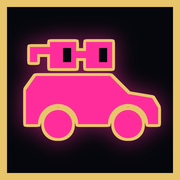
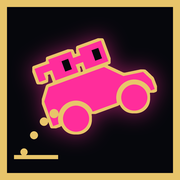
アイコンを「跳ね上がる⌐◨-◨カー」にして咲耶Nounラリーと見分けられるようにする
横向きの車を水平に置いたシルエットは、咲耶Nounラリーのピンクのセダンと
並べると区別がつかなかった。車を20度機首上げにして跳ね上がらせ、後ろに
金の点で跳ねた軌跡と踏み切った地面を描いて、ジャンプバグらしさで見分ける。
色と縁取り・光・枠は咲耶スクランブルと同じ3色のまま。

Claude-Session: https://claude.ai/code/session_01E5WUxXyQ4EDxzCqrV3HKDm

diff --git a/tools/mkicon.py b/tools/mkicon.py
@@ -7,11 +7,14 @@
   - 中身は1つのシルエットを、マゼンタで塗りつぶし・金で縁取り・マゼンタの淡い光
 使う色は咲耶スクランブルのアイコンと同じ3色(地・金・マゼンタ)だけ。
 
-シルエットは 🚙 型の箱形の車の屋根に ⌐◨-◨ が乗った形。
+形は「跳ね上がる⌐◨-◨カー」。屋根に ⌐◨-◨ を乗せた🚙型の車が機首を上げて跳び、
+後ろに金の点で跳ねた軌跡を描く。横向きの車を水平に置いただけでは咲耶Nounラリー
+(ピンクのセダン)と見分けがつかなかったので、「跳ねている」ことで区別する。
   - ◨ の黒い半分(瞳)は地の色で抜き、1色でもメガネに見えるようにする
-  - タイヤは車体からすき間(くり抜き)で切り離し、車だと一目で分かるようにする
+  - タイヤは車体からすき間で切り離し、車だと一目で分かるようにする
 形は180px基準の座標で書き、8倍で描いてから縮める(32pxも同じ形を縮めて作る)。
 """
+import math
 import sys
 from pathlib import Path
 from PIL import Image, ImageDraw, ImageFilter
@@ -24,35 +27,56 @@ FILL = (0xFF, 0x2D, 0x9B)     # マゼンタ: 塗りつぶし
 SS = 8                        # スーパーサンプリング
 
 
+TILT = math.radians(-20)      # 機首上げの角度
+PIVOT = (100, 84)             # 回転の中心(180px基準)
+OFFSET = (-6, 8)              # 傾けたあとに枠の中央へ寄せる量
+
+
+def rot(pts):
+    c, s_ = math.cos(TILT), math.sin(TILT)
+    cx, cy = PIVOT
+    ox, oy = OFFSET
+    return [(cx + (x - cx) * c - (y - cy) * s_ + ox, cy + (x - cx) * s_ + (y - cy) * c + oy) for x, y in pts]
+
+
 def silhouette(S):
-    """塗りつぶす形(白)のマスクと、あとから地の色で抜く穴(◨の瞳)のマスクを返す。
-    瞳を形の一部として抜くと、縁取りの金が穴の中まで回り込んで細いすき間にしか
-    見えなかったので、縁取りを描いたあとで地の色を上から置いて抜く。座標は180px基準"""
+    """塗り(形)・抜き(◨の瞳)・金の点(軌跡)の3枚のマスクを返す。座標は180px基準。
+    瞳を形の一部として抜くと縁取りの金が穴に回り込み細いすき間にしか見えないので、
+    縁取りを描いたあとで地の色を上から置いて抜く"""
     u = S / 180
-    P = lambda pts: [(x * u, y * u) for x, y in pts]
-    R = lambda x0, y0, x1, y1: [x0 * u, y0 * u, x1 * u, y1 * u]
     m = Image.new("L", (S, S), 0)
-    d = ImageDraw.Draw(m)
-    # 車体(横から見た箱形。右が前)
-    d.polygon(P([(26, 124), (26, 90), (36, 76), (110, 76), (128, 94), (152, 98), (158, 108), (158, 124)]), fill=255)
-    # ⌐◨-◨ は屋根から少し浮かせて、かけているメガネとして1つの形に見せる
-    d.rectangle(R(50, 42, 76, 68), fill=255)      # ◨
-    d.rectangle(R(86, 42, 112, 68), fill=255)     # ◨
-    d.rectangle(R(76, 51, 86, 58), fill=255)      # -
-    d.rectangle(R(30, 47, 50, 54), fill=255)      # ⌐ のつる
-    d.rectangle(R(30, 47, 37, 62), fill=255)      # ⌐ の折れ
-    # タイヤ: 車体を丸くくり抜いてから、ひとまわり小さいタイヤを置く
-    for cx in (58, 128):
-        d.ellipse(R(cx - 20, 124 - 20, cx + 20, 124 + 20), fill=0)
-    d.rectangle(R(0, 138, 180, 180), fill=0)
-    for cx in (58, 128):
-        d.ellipse(R(cx - 14, 124 - 14, cx + 14, 124 + 14), fill=255)
     holes = Image.new("L", (S, S), 0)
-    h = ImageDraw.Draw(holes)
-    # ◨ の黒い半分(瞳)。レンズの内側の右半分
-    h.rectangle(R(63, 48, 71, 62), fill=255)
-    h.rectangle(R(99, 48, 107, 62), fill=255)
-    return m, holes
+    dots = Image.new("L", (S, S), 0)
+    d, h, g = ImageDraw.Draw(m), ImageDraw.Draw(holes), ImageDraw.Draw(dots)
+    poly = lambda draw, pts, v=255: draw.polygon([(x * u, y * u) for x, y in rot(pts)], fill=v)
+    box = lambda x0, y0, x1, y1: [(x0, y0), (x1, y0), (x1, y1), (x0, y1)]
+
+    # 車体(横から見た箱形。右が前)
+    poly(d, [(50, 102), (50, 76), (59, 64), (118, 64), (133, 79), (153, 82), (158, 92), (158, 102)])
+    # ⌐◨-◨ を屋根から少し浮かせて乗せる
+    poly(d, box(68, 38, 92, 60))          # ◨
+    poly(d, box(100, 38, 124, 60))        # ◨
+    poly(d, box(92, 45, 100, 52))         # -
+    poly(d, box(52, 42, 68, 49))          # ⌐ のつる
+    poly(d, box(52, 42, 59, 56))          # ⌐ の折れ
+    poly(h, box(80, 44, 87, 55))          # 瞳
+    poly(h, box(112, 44, 119, 55))
+    # タイヤ: 車体を丸くくり抜いてから、ひとまわり小さいタイヤを置く
+    wheels = rot([(74, 103), (136, 103)])
+    for x, y in wheels:
+        d.ellipse([(x - 18) * u, (y - 18) * u, (x + 18) * u, (y + 18) * u], fill=0)
+    for x, y in wheels:
+        d.ellipse([(x - 13) * u, (y - 13) * u, (x + 13) * u, (y + 13) * u], fill=255)
+
+    # 跳ねた軌跡: 地面から後ろのタイヤへ向かう点の列と、踏み切った地面
+    for i in range(4):
+        t = i / 4
+        x = 24 + t * 40
+        y = 152 - math.sin(t * math.pi * 0.55) * 40
+        r = 3.6 + t * 1.2
+        g.ellipse([(x - r) * u, (y - r) * u, (x + r) * u, (y + r) * u], fill=255)
+    g.rectangle([14 * u, 155 * u, 58 * u, 159 * u], fill=255)
+    return m, holes, dots
 
 
 def icon(size):
@@ -60,7 +84,7 @@ def icon(size):
     u = S / 180
     im = Image.new("RGB", (S, S), BG)
 
-    mask, holes = silhouette(S)
+    mask, holes, dots = silhouette(S)
     # 形を r px 太らせる(膨張)。BoxBlur で近くに白がある画素を拾い、しきい値で2値に戻す
     grow = lambda r: mask.filter(ImageFilter.BoxBlur(max(1, round(r * u)))).point(lambda v: 255 if v > 6 else 0)
     outline = grow(3)                                  # 金の縁取りの太さ(180px基準で約3px)
@@ -70,6 +94,7 @@ def icon(size):
     im.paste(Image.new("RGB", (S, S), GOLD), (0, 0), outline)
     im.paste(Image.new("RGB", (S, S), FILL), (0, 0), mask)
     im.paste(Image.new("RGB", (S, S), BG), (0, 0), holes)
+    im.paste(Image.new("RGB", (S, S), GOLD), (0, 0), dots)
 
     d = ImageDraw.Draw(im)
     d.rectangle([0, 0, S - 1, S - 1], outline=GOLD, width=round(7 * u))

diff --git a/README.md b/README.md
@@ -14,7 +14,8 @@ CNPを拾いながらゴールの鳥居を目指す。公開URLは `https://jump
   どちらも咲耶スクランブルから複製したもの
 - アイコン（`apple-touch-icon.png` 180px / `favicon-32.png` 32px）はこの作品専用。`tools/mkicon.py` で作る
   （要 Pillow）。咲耶スクランブルの三角形と同じく形だけで見せる: 暗い四角＋金の枠の中に、
-  🚙 型の車の屋根に ⌐◨-◨ が乗ったシルエットを、マゼンタの塗り＋金の縁取り＋淡い光で描く
+  屋根に ⌐◨-◨ を乗せた 🚙 型の車が機首を上げて跳ね上がるシルエットを、マゼンタの塗り＋金の縁取り＋
+  淡い光で描き、後ろに金の点で跳ねた軌跡を添える（水平な横向きの車だと咲耶Nounラリーと見分けがつかないため）
 
 ```
 python3 tools/mkicon.py apple-touch-icon.png favicon-32.png
